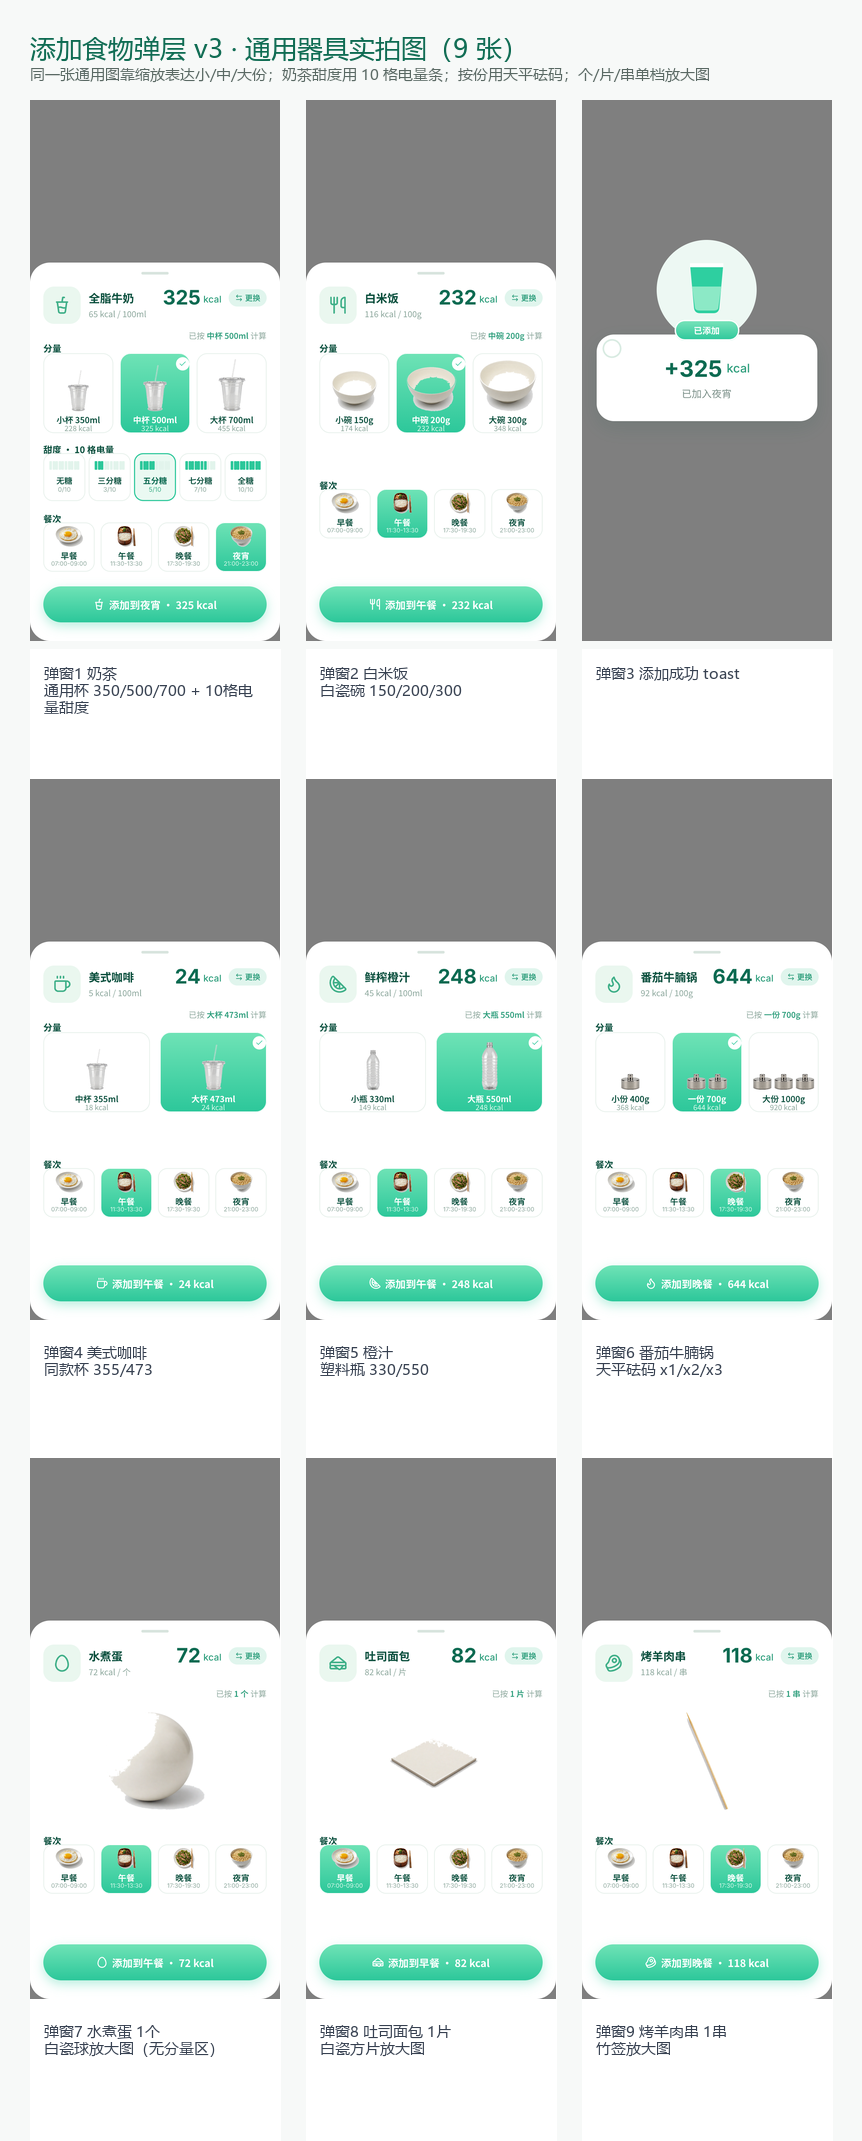
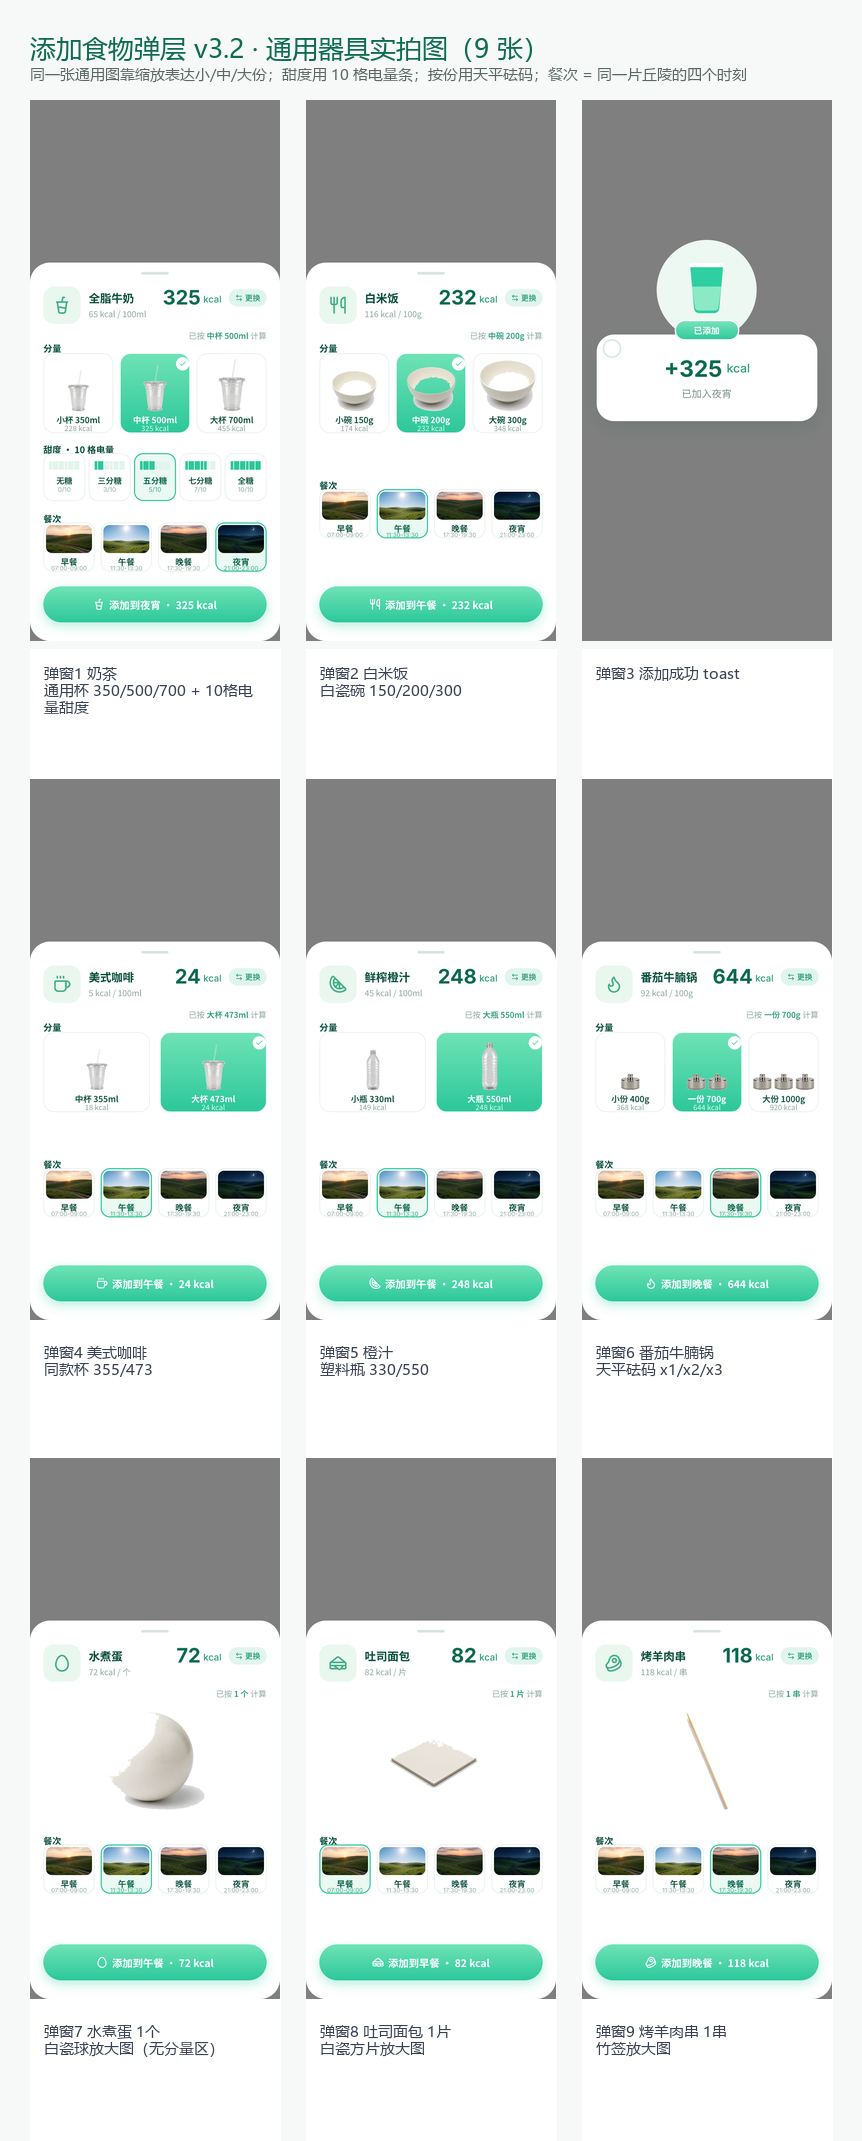
design(Pencil): 弹层 v3.2 —— 餐次改「时间空间状态」实拍风光照
老板指出餐次不该用食物区分（食物与餐次无绑定），应体现时间空间状态。
三方案（A 几何天色轨迹 / B 实拍风光 / C 时钟表盘）过稿，老板选 B。

定稿：同一片丘陵的四个时刻（系列感 = 状态感）
- 早餐日出 / 午餐正午 / 晚餐黄昏 / 夜宵月夜
- Agnes ratio:"16:9" 直接支持，4 张一次过（sky_v3.py，480x269）
- 弹层餐次卡：69x42 照片条 mode:'fill' + 名称 + 时间段，选中 #2CC79A 描边
- 餐次板重建为 ZL2sa「同一片丘陵的四个时刻」

新画板 ID：hOLqf/YXLFE/gWlaK/dqMxb/Spqws/KsTb9/w8v5c/HCExy + ZL2sa
（③ Dz3YV、对照 A-E 未动）

新踩坑：Pencil assets/ 目录索引只在打开文档时建立，会话运行中
新增图片渲染棋盘格（绝对路径也不行）；实测解法 = 放进文档目录的
images/ 子目录（运行时可发现）。另确认 mode 无 cover（用 fill）、
rectangle 无 clip 属性。

交付：docs/design/2026-09-20-add-food-popup-v3/ 重打包
（9 弹层 + 6 板 + 2 总览 + 22 张素材 + README v3.2）

未做项：4 张风光照与 9 弹层整体美观度待老板目测。

diff --git a/docs/design/2026-09-20-add-food-popup-v3/README.md b/docs/design/2026-09-20-add-food-popup-v3/README.md
@@ -1,124 +1,66 @@
-# 添加食物弹层 v3 —— 通用器具实拍图方案
+# 添加食物弹层 v3.2 —— 通用空器皿 + 餐次「时间空间状态」
 
-> 轮次：老板第 20 轮（2026-09-20）｜设计工具：Pencil（`pencil-new.pen`）
-> 素材生成：Agnes `agnes-image-2.5-flash`，1K 方图，白底抠除
-> 生成脚本：`.workbuddy/ref/vessel_v3.py`｜建板脚本：`.workbuddy/ref/pencil_v3_popups.js`（Update/Replace 建树版）、`pencil_v3_boards2.js`、`pack_v3.py`（打包）
+> 2026-09-20 · 老板口径第三轮定稿。v2（逐食物配图）已推翻；v2 旧画板已按老板圈图删除。
 
-## 1. 这一版为什么重做（老板第 20 轮口径）
+## 核心原则
 
-上一版（`2026-09-20-add-food-popup`）给**每种食物各画一张图、图里放对应食物**，老板判定「思路不对」：
-器具模板一共就这么多规格，与其给每种食物配图，不如**每种规格只做一张通用器具图，靠缩放表达份量大小**。
-用户要的是「一眼看懂这一份有多大」，不是「这张照片拍得有多精致」。
+**每种规格只做一张通用图，档位只改显示尺寸，不给每种食物各配图。**
 
-本轮六条口径与落点：
+- 14 张通用空器皿图（杯系 3 合 1、碗系 3 合 1）+ 4 张计数单位图（个/片/串）
+- `pot` 按份 → 天平砝码 ×1/×2/×3
+- 奶茶甜度 → 10 格电量条
+- **餐次 → 同一片丘陵的四个时刻（方案B 实拍风光照）**：餐次是时间空间状态（天色 + 天体位置），不用食物区分
 
-| # | 老板口径 | 落点 |
+## 餐次卡（本轮变更）
+
+同一片丘陵、同一条小路，四个时刻：
+
+| 餐次 | 文件 | 状态 |
 |---|---|---|
-| 1 | 天平砝码想法很好（小/中/大份 → 1/2/3 个） | `pot`（按份）改用砝码图 ×1/×2/×3，弹窗⑥ |
-| 2 | 1个/1片/1串也必须生图，要实拍风，拒绝图标 | 白瓷球（个）、白瓷方片（片）、竹签串（串）三张实拍图 + 弹窗⑦⑧⑨单档大图 |
-| 3 | 没有 15 种要生成，里面有重复的 | 18 个 vesselTpl key → **14 张器具图 + 4 张餐次图**，见 §2 |
-| 4 | 奶茶甜度做成 10 格电量 | 弹窗①甜度区改 10 格电池条，无糖 0 格亮 / 全糖 10 格全亮 |
-| 5 | Ardot 13–17 号板不废弃也不删除 | 原样保留，本轮零改动 |
-| 6 | 早/午/晚/夜宵要生成图标，要大众一眼看懂，但不能难看 | 4 张实拍餐食照片，见餐次图标板 |
+| 早餐 07:00-09:00 | `assets/v3_sky_breakfast.png` | 日出，太阳刚上山脊，晨光暖金 |
+| 午餐 11:30-13:30 | `assets/v3_sky_lunch.png` | 正午，烈日当头，蓝天亮绿 |
+| 晚餐 17:30-19:30 | `assets/v3_sky_dinner.png` | 黄昏，落日半沉，橙紫晚霞 |
+| 夜宵 21:00-23:00 | `assets/v3_sky_night.png` | 月夜，弯月星星，深蓝剪影 |
 
-## 2. 去重口径：18 个模板 key → 18 张图（14 器具 + 4 餐次）
+弹层里卡片 77×74：照片条 69×42（`mode:'fill'`）+ 餐次名 + 时间段；选中态 `#2CC79A` 描边。
 
-`vesselTpl` 共 18 个 key。**形状重复的合并为一张通用图**，靠缩放/数量区分档位：
+## 去重映射（18 模板 → 18 张素材）
 
-| 通用图 | 覆盖的 vesselTpl key | 表达档位的方式 |
-|---|---|---|
-| `cup` 通用饮水杯 | `cup` / `cup_coffee` / `cup_soda` | 缩放：350 / 500 / 700 ml |
-| `mug` 马克杯 | `mug` | 单档 300 ml |
-| `glass` 直身水杯 | `glass` | 单档 250 ml |
-| `glass_wine` 高脚杯 | `glass_wine` | 单档 150 ml |
-| `shot` 烈酒杯 | `shot` | 单档 50 ml |
-| `bottle` 塑料瓶 | `bottle` | 缩放：330 / 550 ml |
-| `can` 易拉罐 | `can` | 单档 330 ml |
-| `bowl` 白瓷大碗 | `bowl_rice` / `bowl_noodle` / `bowl_soup` | 缩放：150 / 200 / 300 g |
-| `plate` 白瓷圆盘 | `plate` | 缩放：半份 / 一份 / 两份 |
-| `weight` 天平砝码 | `pot` | **数量**：×1 / ×2 / ×3（400/700/1000 g） |
-| `bag` 包装袋 | `bag` | 缩放：小包 50 / 大包 100 g |
-| `ball` 白瓷球 | `piece` | 单档 1 个 |
-| `tile` 白瓷方片 | `slice` | 单档 1 片 |
-| `skewer` 竹签串 | `skewer` | 单档 1 串 |
-| `meal_breakfast` 早餐 | 餐次选择器 | 单图 |
-| `meal_lunch` 午餐 | 餐次选择器 | 单图 |
-| `meal_dinner` 晚餐 | 餐次选择器 | 单图 |
-| `meal_night` 夜宵 | 餐次选择器 | 单图 |
-
-**三处合并**：① `cup` 系 3 个 key 共用一张（奶茶/咖啡/汽水都是同一个大众杯型）；② `bowl` 系 3 个 key 共用一张（米饭/面条/汤都是同一个白瓷碗）。
-**两处不用原物**：③ `pot` 用砝码代替锅（锅的份量没有大众通识，砝码有）；④ `piece`/`slice` 用白瓷球/方片代替「一个/一片」（这两个单位本身没有固定实物，用最中性的白瓷物件表达，实拍风、非图标）。
-
-## 3. 份量的视觉换算规则（v3.1 调大版）
-
-档位图的显示尺寸由 `amount` 推出，**同一张图靠缩放表达大小**。首版（倍率 6.08/9.5）杯类只有 22–28px 宽、
-三档几乎看不出差别，v3.1 调大并加高分量卡：
-
-- 分量卡加高：3 档 105×100 → **105×120**，2 档 160×112 → **160×120**，图区可用高 88px
-- 高度 `h ∝ ∛(amount)`：`R≥1`（竖长器物）倍率 **9.0**；`R<1`（扁平器物）倍率 **13.0**；再夹到最大盒
-- 宽高比沿用源图真实比例 `R = h/w`，不拉伸
-- **计数类（1个/1片/1串，amount=1）不参与立方根缩放**，固定高 66px；单档弹窗里另放一张 150px 高的大图
-- 砝码卡（`pot`）例外：固定 `ih = 26px`（105px 卡里放 3 个已接近宽度上限），`n` 个砝码横向排布、间距 3px
-
-实测效果（弹窗①）：三档杯 33/37/42px 宽、63/71/80px 高，肉眼可辨。
-
-## 4. 奶茶甜度：10 格电量条
-
-- 10 个矩形格，格宽 3.6、间距 1.0、条高 13，总宽 ≈45px
-- 亮格 `#2CC79A`，暗格 `#E2F4EC`
-- 档位：无糖 0 / 三分糖 3 / 五分糖 5 / 七分糖 7 / 全糖 10
-- 选中卡：底 `#EAF9F2` + `#2CC79A` 描边
-
-## 5. 素材生成要点（踩坑记录）
-
-1. **白瓷器具必须配浅灰背景**：纯白碗/盘/球/片放在纯白背景上，模型会把器物内部也填白，四角泛洪裁剪会漏进内部 → 这 4 个 key 的 prompt 改为 `on a very light grey seamless background`，让暖白器物比背景更亮，裁剪停在轮廓上。
-2. **空器皿要反复强调 empty**：prompt 前置 `completely empty with nothing inside, no food, no liquid, no contents, no garnish`，否则模型会自行脑补装食物，破坏通用性。
-3. **`plate`/`skewer` 不透明像素占比天然低**（29.7% / 10.5%）——扁盘和细签本来就只占画面一角，不是废图，判读时看不透明率而非文件大小。
-4. **Pencil 单画板图片节点上限**：一块 1140×910 的板塞 ~28 个图片节点 → 导出**全空（0% 非白）**。拆成 ≤540px 宽、≤8 张图的 6 块小板后全部正常渲染。
-5. **Pencil 渲染管线坑（v3.1 新增，最重要）**：当晚会话里 `Insert(parent, node)` 挂出来的**子节点全部不进渲染管线**——画板自身 fill 能渲染、`Get` 能读到节点、但截图/导出全白；且不是「1 帧延迟」，隔多次调用仍白。**唯一可靠通路：先 `Insert` 空壳 frame，再把整棵嵌套子树用 `Replace(id, {...壳属性, children:[...]})` 一次灌入**。两个前置坑：① `Update(id,{children})` 会报 `unexpected property "children"`（文档写「改 children 用 Replace」，实测 Update 偶尔能过但不可依赖）；② nodeData 里**叶子节点不能带空 `children: []`**，否则整棵树被拒——建树时给每个节点都挂了 children 数组的话，灌入前必须把空 children 递归 delete 掉。
-
-## 6. 文件索引
-
-| 文件 | 内容 |
+| vesselTpl key | 素材 |
 |---|---|
-| `00-overview.png` | 9 张弹层总览 |
-| `01-milktea-portion-sweet.png` | 弹窗① 添加奶茶（通用杯 350/500/700 + 10 格甜度 + 夜宵） |
-| `02-rice-bowl-3size.png` | 弹窗② 添加白米饭（白瓷碗 150/200/300 + 午餐） |
-| `03-toast-success.png` | 弹窗③ 添加成功 toast |
-| `04-coffee-2size.png` | 弹窗④ 添加美式咖啡（同款杯 355/473 + 午餐） |
-| `05-orangejuice-2size.png` | 弹窗⑤ 添加橙汁（塑料瓶 330/550 + 午餐） |
-| `06-pot-weights.png` | 弹窗⑥ 番茄牛腩锅（天平砝码 ×1/×2/×3 + 晚餐） |
-| `07-egg-1ge.png` | 弹窗⑦ 水煮蛋 1 个（白瓷球大图，无分量区） |
-| `08-bread-1pian.png` | 弹窗⑧ 吐司面包 1 片（白瓷方片大图） |
-| `09-skewer-1chuan.png` | 弹窗⑨ 烤羊肉串 1 串（竹签大图） |
-| `10-board-A-cup-bottle-can.png` | 对照A 一次性杯/瓶/罐 |
-| `11-board-B-mug-glass-wine-shot.png` | 对照B 家用玻璃器皿 |
-| `12-board-C-bowl-plate.png` | 对照C 碗与圆盘 |
-| `13-board-D-portion-bag.png` | 对照D 按份（砝码）与包装（袋） |
-| `14-board-E-count.png` | 对照E 计数类（个/片/串） |
-| `15-board-meals.png` | 餐次图标板（早/午/晚/夜宵实拍） |
-| `16-overview-boards.png` | 6 块对照板总览 |
-| `17-overview-assets.png` | 18 张素材总览 |
-| `assets/v3_*.png` | 18 张素材源文件（白底已抠除，Pencil 内引用名即 `assets/v3_<key>.png`） |
+| cup / cup_coffee / cup_soda | `v3_cup.png`（一次性透明杯，缩放分档） |
+| bowl_rice / bowl_noodle / bowl_soup | `v3_bowl.png`（白瓷碗） |
+| mug / glass / glass_wine / shot / bottle / can / plate / bag | 各一张 |
+| piece / slice / skewer | `v3_ball` 白瓷球 / `v3_tile` 白瓷方片 / `v3_skewer` 竹签（固定高 66px，单档） |
+| pot | `v3_weight.png` 天平砝码，卡内重复 ×1/×2/×3 |
 
-## 7. Pencil 画板 ID（v3.1 重建后）
+## 份量视觉换算
 
-| 画板 | ID |
+`h ∝ ∛amount`；宽高比沿用源图 `R = h/w`。`R≥1 → s = 9.0·∛amount`（高基准），`R<1 → s = 13.0·∛amount`（宽基准），再夹最大盒；amount≤1 固定高 66px。
+
+## 画板清单（Pencil `pencil-new.pen`）
+
+| ID | 内容 |
 |---|---|
-| 弹窗① 添加奶茶 | `b27NV` |
-| 弹窗② 添加白米饭 | `f4Rxn` |
-| 弹窗③ 添加成功 | `Dz3YV` |
-| 弹窗④ 添加咖啡 | `Y2IcP` |
-| 弹窗⑤ 添加橙汁 | `PPgV2` |
-| 弹窗⑥ 番茄牛腩锅 | `j2pvJ7` |
-| 弹窗⑦ 水煮蛋 | `o5s5z` |
-| 弹窗⑧ 吐司面包 | `yNOsF` |
-| 弹窗⑨ 烤羊肉串 | `bwgoN` |
-| 对照A–E + 餐次图标板 | `DlwpP` / `NAxHE` / `CNJ5U` / `Z0UKNa` / `v8oQqx` / `CvEBV` |
-| v2 旧稿（保留不删） | `f4C1X` 等 8 块，已移至 y:1900 |
+| `hOLqf` | 弹窗① 奶茶（3 档 + 10 格电量甜度） |
+| `YXLFE` | 弹窗② 白米饭（白瓷碗 3 档） |
+| `Dz3YV` | 弹窗③ 添加成功 toast |
+| `gWlaK` | 弹窗④ 美式咖啡（2 档） |
+| `dqMxb` | 弹窗⑤ 橙汁（塑料瓶 2 档） |
+| `Spqws` | 弹窗⑥ 番茄牛腩锅（砝码 1/2/3） |
+| `KsTb9` / `w8v5c` / `HCExy` | 弹窗⑦水煮蛋 / ⑧吐司 / ⑨羊肉串（单档大图） |
+| `DlwpP`–`v8oQqx` | 对照 A–E（杯瓶罐 / 玻璃器皿 / 碗盘 / 按份包装 / 计数类） |
+| `ZL2sa` | 餐次图标板（同一片丘陵的四个时刻） |
 
-## 8. 待老板确认
+## 文件
 
-- 4 张餐次图的美观度（「不能难看」这条需要真人目测）
-- 白瓷球/方片/竹签作为「1 个/1 片/1 串」的通识度是否可接受（⑨ 竹签偏细，若看不清可给签身加粗或换实拍肉串图）
-- 10 格电量条可读性（截图目测已可辨认，真机再验）
+- `00-overview.png`：9 张弹层总览
+- `01–09`：弹层单图；`10–15`：对照板 + 餐次板
+- `16-overview-boards.png` / `17-overview-assets.png`：板与素材总览
+- `assets/`：22 张素材（14 器具 + 4 计数 + 4 风光，另有 4 张旧食物抠图备查）
+
+## 工程备注
+
+- 画板构建用「Insert 空壳 + `Replace(id, {...壳属性, children:[整棵树]})`」通路；`Insert` 直接挂子节点不进渲染管线。
+- 照片填充用 `mode:'fill'`（没有 `cover`）；rectangle 无 `clip` 属性，圆角裁剪靠 `cornerRadius`。
+- **Pencil 的 `assets/` 目录只在打开文档时建立索引**：会话运行中新增的图片文件渲染为棋盘格。运行中需要加图，放进文档目录的 `images/` 子目录（运行时可发现），或重启 Pencil 后再引用 `assets/`。

diff --git a/docs/progress.md b/docs/progress.md
@@ -10,6 +10,17 @@
 
 ## 最近进度
 
+### 2026-09-20 — 首页餐次区按新稿还原（Boss 反馈「meal-card 阴影不够、餐次图标不对」）
+
+- **触发**：Boss 贴设计稿 vs 实机截图，指出 meal-card 阴影不够、餐次图标不对，明确 scope 只改餐次区
+- **依据**：首页新稿 Ardot 727788215940571，`batch_read` + `export_nodes` 实测节点 10:290（明细白卡 362×154@472 画布）/ 10:325（时间轴竖线）/ 10:341（47×47 图标圆）/ 10:258 10:244（太阳/月亮矢量 path）
+- **改动 1 · 明细裹白卡**：`Home.uvue` 餐次明细从裸排改为 `meal-card`（#FFFFFF r16 + 投影 `0 5px 14px rgba(26,102,77,0.06)`）；472→app 换算系数 0.794（宽 362→287、缩略图 46→37）；行间 1px `#F0F5F2` 分隔线（absolute 定位，不占高度）
+- **改动 2 · 时间轴改 flex 列**：删掉写死的绝对定位竖线，改为 `meal-rail`（图标列 42px）+ `rail-line`（`flex:1` 1px 竖线），随餐次数自动伸缩，末餐不画线
+- **改动 3 · 图标重画**：`MealIcon.uvue` 早/午=太阳（12.84 dot + 8 射线）、晚=月亮（月牙 + 2 星）——矢量几何从设计稿导出，PIL 4x 超采样成 `static/icons/meal_sun.png` / `meal_moon.png`；圆圈改正圆 r21 + 渐变 `#5CD9A6→#29B385`（135°）+ 投影 `0 5 12 rgba(31,140,97,0.25)`；加餐无新稿参考保留 CSS 曲奇
+- **顺手修的坑**：prop 改名 `type→kind` 后漏改调用方，已同步 `Home.uvue`
+- **文字色按设计稿校准**：名称 `#14584A` / 份量 `#8FAEAF` / 热量 `#0B7954`
+- **验证**：本地无 node_modules 跑不了构建（uni-app x 编译在 HBuilderX 内），已交由 Boss 在微信 IDE 重编后对照设计稿截图验收；`read_lints` 零错误
+
 ### 2026-09-19 — 白屏真凶落网：`const` + 模板内联赋值 = 整个页面模块被丢弃
 
 - **接上条排障**：补 `FoodPickerSheet.json` 后模拟器能启动了，但首页白屏。用户从 IDE 控制台贴出完整报错，才看到真正的编译错误（**automator 截图只有模拟器画面，编译错误只出现在 IDE 控制台**——两条信息通道必须都用）：
@@ -376,6 +387,9 @@
 
 | 时间 | 变更 |
 |---|---|
+| 2026-09-20 | **画布清理**：按老板圈图删除 6 块 v2 旧板（旧①糖块版/旧②/旧④/旧⑥/旧⑦/旧⑧）+ v2 toast `FkjGk`；Ardot 13–17 号板按要求保留未动。 |
+| 2026-09-20 | **弹层 v3.2 —— 餐次改「时间空间状态」实拍风光照（老板定方案B）**：老板指出餐次应体现时间空间状态而非用食物区分（食物与餐次无绑定）。定稿：**同一片丘陵的四个时刻**——早餐日出/午餐正午/晚餐黄昏/夜宵月夜，Agnes `16:9` 一次过 4 张（`v3_sky_*.png`）。弹层餐次卡改照片条 69×42（`mode:'fill'`）+ 名称 + 时间段；餐次板重建为 `ZL2sa`（丘陵四时刻， Replace 灌树）。**新踩坑**：Pencil 的 `assets/` 目录只在打开文档时建立索引，运行中新增图片渲染为棋盘格；解法 = 放进文档目录的 `images/` 子目录（运行时可发现）再引用 `images/xxx.png`。交付：`docs/design/2026-09-20-add-food-popup-v3/` 重打包（22 张素材 + 9 弹层 + 6 板 + README v3.2）。 |
+| 2026-09-20 | 首页餐次区按新稿还原：meal-card 补白卡 + 投影 + 行间分隔线、时间轴改 flex rail 列、餐次图标重画（太阳/月亮 PNG + 正圆渐变），详见「最近进度」 |
 | 2026-09-20 | **弹层 v3.1 返工（读图能力恢复后目测发现的 3 处问题全修）**：①**首版器物图过小**——3 档卡 105×100 里杯类只有 22–28px 宽、三档肉眼难辨；分量卡加高 100→**120**、倍率 6.08/9.5→**9.0/13.0**，三档杯变 33/37/42px 宽、63/71/80px 高，截图中清晰可辨；②**计数类漏定尺寸**——`piece/slice/skewer` 的 amount=1，∛1=1 会算出 6–9px 废图，补固定高 **66px**，并新建**弹窗⑦⑧⑨**（水煮蛋/吐司/羊肉串，单档无分量区、放 150px 大图）；③新增 2 条 Pencil 铁律（见下）。**交付升级**：弹层 6→9 张（新增 ⑦水煮蛋 `o5s5z` / ⑧吐司 `yNOsF` / ⑨羊肉串 `bwgoN`，其余重建为 `b27NV`/`f4Rxn`/`Y2IcP`/`PPgV2`/`j2pvJ7`），`docs/design/2026-09-20-add-food-popup-v3/` 重打包为 00 总览 + 01–09 弹层 + 10–15 对照板 + 16/17 总览 |
 | 2026-09-20 | **🔴 Pencil 渲染管线铁律（当晚实测，最重要）**：会话内 `Insert(parent, node)` 挂出的**子节点全部不进渲染管线**——壳 frame 的 fill 能渲染、`Get` 能读到全部节点、但截图/导出全白，且**不是 1 帧延迟**（隔多次调用仍白）。**唯一可靠通路：`Insert` 只造空壳，整棵嵌套子树用 `Replace(id, {...壳属性, children:[...]})` 一次灌入**。三个前置坑：① `Update(id,{children})` 按 API 文档会报 `unexpected property "children"`（改 children 必须用 Replace）；② Replace 的 nodeData 里**叶子节点不能带空 `children: []`**，否则整棵树被整体拒绝——建树辅助函数若给每个节点都预挂 children 数组，灌入前必须递归 delete 空 children；③ 弹窗这类整屏结构应写成「建树函数返回嵌套对象 + 末尾一次 Replace」，别逐节点 Insert |
 | 2026-09-19 | 图标方案定案：**纯文生图**（排除图生图/抠图/详细文案/品牌锚定）；Prompt 规约与 10 食物合格率实测沉淀至 `toolchain/README.md` B.3–B.6 |
